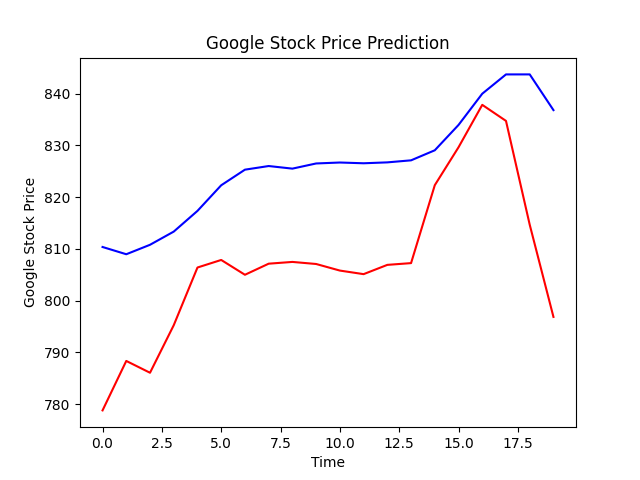
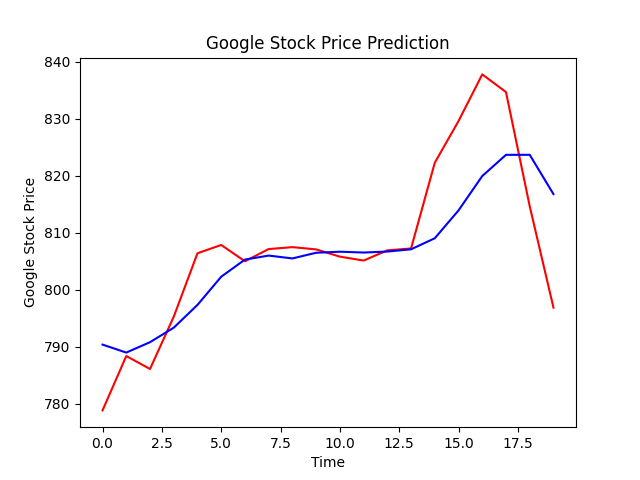
data extraction ui improvement

diff --git a/templates/data.html b/templates/data.html
@@ -1,0 +1,134 @@
+<!DOCTYPE html>
+<html lang="en">
+
+<head>
+  <meta charset="utf-8">
+  <meta content="width=device-width, initial-scale=1.0" name="viewport">
+
+  <title>Stock Market Analysis</title>
+  <meta content="" name="description">
+
+  <meta content="" name="keywords">
+
+  <!-- Favicons -->
+  <link href="static/img/logo_bull.png" rel="icon">
+  <link href="static/img/logo_bull.png" rel="apple-touch-icon">
+
+  <!-- Google Fonts -->
+  <link href="https://fonts.googleapis.com/css?family=Open+Sans:300,300i,400,400i,600,600i,700,700i|Nunito:300,300i,400,400i,600,600i,700,700i|Poppins:300,300i,400,400i,500,500i,600,600i,700,700i" rel="stylesheet">
+  <link rel="stylesheet" href="https://cdn.jsdelivr.net/npm/bootstrap-icons@1.5.0/font/bootstrap-icons.css">
+  <!-- Vendor CSS Files -->
+  <link href="static/vendor/bootstrap/css/bootstrap.min.css" rel="stylesheet">
+  <link href="static/vendor/bootstrap-icons/bootstrap-icons.css" rel="stylesheet">
+  <link href="static/vendor/aos/aos.css" rel="stylesheet">
+  <link href="static/vendor/remixicon/remixicon.css" rel="stylesheet">
+  <link href="static/vendor/swiper/swiper-bundle.min.css" rel="stylesheet">
+  <link href="static/vendor/glightbox/css/glightbox.min.css" rel="stylesheet">
+
+  <!-- Template Main CSS File -->
+  <link href="static/css/style.css" rel="stylesheet">
+
+  <!-- =======================================================
+  * Template Name: FlexStart - v1.7.0
+  * Template URL: https://bootstrapmade.com/flexstart-bootstrap-startup-template/
+  * Author: BootstrapMade.com
+  * License: https://bootstrapmade.com/license/
+  ======================================================== -->
+  <style>
+      #cover {
+    background: rgb(255, 255, 255);
+    background-size: cover;
+    height: 100%;
+    text-align: center;
+    display: flex;
+    align-items: center;
+    position: relative;
+}
+
+#cover-caption {
+    width: 100%;
+    position: relative;
+    z-index: 1;
+}
+  </style>
+</head>
+
+<body>
+
+  <!-- ======= Header ======= -->
+  <header id="header" class="header fixed-top">
+    <div class="container-fluid container-xl d-flex align-items-center justify-content-between">
+
+      <a href="/" class="logo d-flex align-items-center">
+        <img src="static/img/logo.png" alt="">
+        <span>Deep Learning</span>
+      </a>
+
+      <nav id="navbar" class="navbar">
+        <ul>
+          <li><a class="nav-link scrollto" href="/#hero">Home</a></li>
+          <li><a class="nav-link scrollto" href="/#about">About Project</a></li>
+          <li><a class="nav-link scrollto" href="/#models">Models</a></li>
+          <li><a class="nav-link scrollto" href="/#features">Features</a></li>
+          <li><a class="nav-link scrollto" href="/#team">Team</a></li>
+          <li><a class="nav-link scrollto" href="/#contact">Contact</a></li>
+          <li><a class="nav-link scrollto active" href="/data">Extract Live Data</a></li>
+          <li><a class="getstarted scrollto" href="https://github.com/chinmay29hub/stock-market-analysis" target="_blank">Github<i class="bi-github" role="img" aria-label="GitHub"></i></a></li>
+        </ul>
+        <i class="bi bi-list mobile-nav-toggle"></i>
+      </nav><!-- .navbar -->
+
+    </div>
+  </header><!-- End Header -->
+  <section id="cover" class="min-vh-100">
+    <div id="cover-caption">
+        <div class="container shadow-lg">
+
+  <form method="POST">
+    <!-- <input type="text" name="company">
+    <input type="date" name="start">
+    <input type="date" name="end">
+    <input type="submit"> -->
+    <div class="mb-3">
+        <br>
+        <label class="form-label">Enter Company Name(Symbol)</label>
+        <input type="text" name="company" class="form-control" required>
+        <div class="form-text">Please Enter All letters In CAPS</div>
+      </div>
+      <div class="mb-3">
+        <label class="form-label">Please Select The Start Date</label>
+        <input type="date" name="start" class="form-control" required>
+      </div>
+      <div class="mb-3">
+        <label class="form-label">Please Select The End Date</label>
+        <input type="date" name="end" class="form-control" required>
+      </div>
+
+      <input class="btn btn-primary" type="submit" value="Submit">
+      <br><br>
+</form>
+</div>
+</div>
+
+</section>
+
+
+  
+
+  <a href="#" class="back-to-top d-flex align-items-center justify-content-center"><i class="bi bi-arrow-up-short"></i></a>
+
+  <!-- Vendor JS Files -->
+  <script src="static/vendor/bootstrap/js/bootstrap.bundle.js"></script>
+  <script src="static/vendor/aos/aos.js"></script>
+  <script src="static/vendor/php-email-form/validate.js"></script>
+  <script src="static/vendor/swiper/swiper-bundle.min.js"></script>
+  <script src="static/vendor/purecounter/purecounter.js"></script>
+  <script src="static/vendor/isotope-layout/isotope.pkgd.min.js"></script>
+  <script src="static/vendor/glightbox/js/glightbox.min.js"></script>
+
+  <!-- Template Main JS File -->
+  <script src="static/js/main.js"></script>
+
+</body>
+
+</html>

diff --git a/templates/after.html b/templates/after.html
@@ -55,7 +55,7 @@
           <li><a class="nav-link scrollto" href="#features">Features</a></li>
           <li><a class="nav-link scrollto" href="#team">Team</a></li>
           <li><a class="nav-link scrollto" href="#contact">Contact</a></li>
-          <li><a class="getstarted scrollto" href="/data">Extract Live Data</a></li>
+          <li><a class="getstarted scrollto" href="/data">Extract Live Data<i class="bi bi-file-bar-graph"></i></a></li>
           <li><a class="getstarted scrollto" href="https://github.com/chinmay29hub/stock-market-analysis" target="_blank">Github<i class="bi-github" role="img" aria-label="GitHub"></i></a></li>
         </ul>
         <i class="bi bi-list mobile-nav-toggle"></i>

diff --git a/basic.py b/basic.py
@@ -128,7 +128,7 @@ def home():
     predicted_stock_price = regressor.predict(X_test)
     # predicted_stock_price = sc.inverse_transform(predicted_stock_price)
     predicted_stock_price = predicted_stock_price*(1/1.86025746e-03)
-    predicted_stock_price = predicted_stock_price+300
+    predicted_stock_price = predicted_stock_price+280
     # plotting the figure
     fig_rnnNew = Figure()
     plt = fig_rnnNew.add_subplot(1, 1, 1)
@@ -145,7 +145,7 @@ def home():
 
 @app.route('/data')
 def data_form():
-    return render_template('sample.html')
+    return render_template('data.html')
 
 
 @app.route('/data', methods=['POST'])
